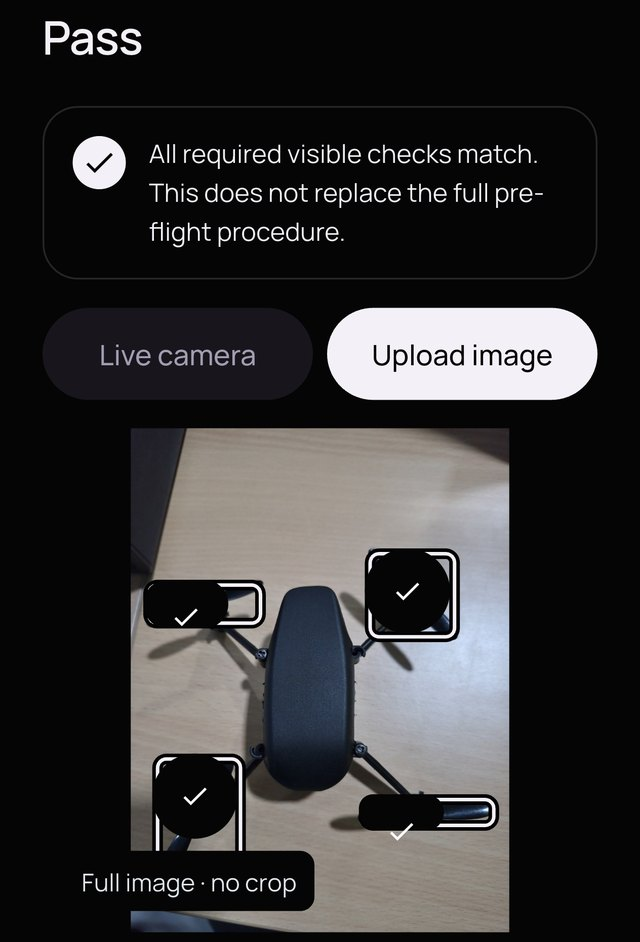
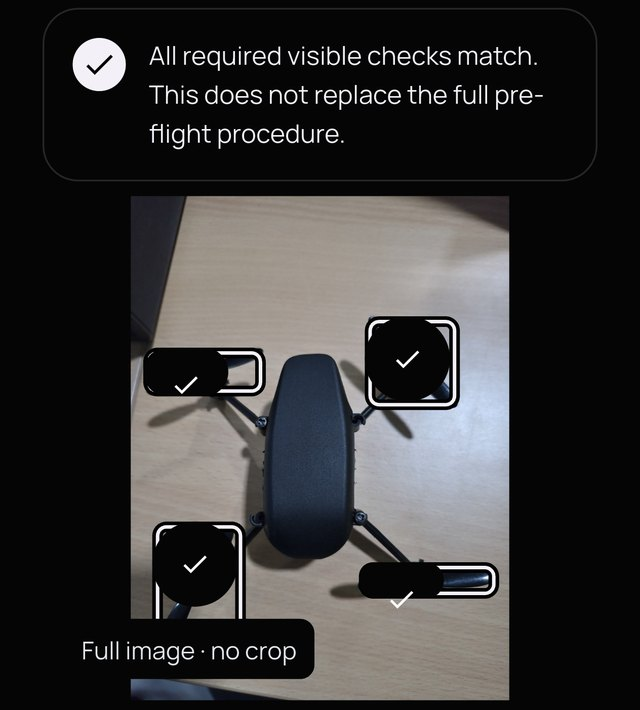
website: tighter result screenshots (message + annotated photo)

diff --git a/apps/website/index.html b/apps/website/index.html
@@ -195,7 +195,7 @@
           <p class="cases__lead">Captured from the Android app on a real phone, running the on-device model.</p>
           <ol class="cases">
             <li class="case case--pass">
-              <figure class="case__shot"><img src="./app/case-pass.jpg" width="640" height="942" loading="lazy" decoding="async" alt="App showing Pass with all four propellers ticked" /></figure>
+              <figure class="case__shot"><img src="./app/case-pass.jpg" width="640" height="710" loading="lazy" decoding="async" alt="App showing Pass with all four propellers ticked" /></figure>
               <div class="case__body">
                 <h3 class="case__title">Pass</h3>
                 <p class="case__line">All four propellers found and matched to the reference.</p>
@@ -206,7 +206,7 @@
               </div>
             </li>
             <li class="case case--fail">
-              <figure class="case__shot"><img src="./app/case-fail.jpg" width="640" height="942" loading="lazy" decoding="async" alt="App showing Incorrect Installation with the front-left propeller marked" /></figure>
+              <figure class="case__shot"><img src="./app/case-fail.jpg" width="640" height="710" loading="lazy" decoding="async" alt="App showing Incorrect Installation with the front-left propeller marked" /></figure>
               <div class="case__body">
                 <h3 class="case__title">Incorrect Installation</h3>
                 <p class="case__line">The exact motor to fix is marked, with the correct propeller type.</p>
@@ -218,7 +218,7 @@
               </div>
             </li>
             <li class="case case--unable">
-              <figure class="case__shot"><img src="./app/case-unable.jpg" width="640" height="942" loading="lazy" decoding="async" alt="App showing Unable to Verify for a close-up of one propeller" /></figure>
+              <figure class="case__shot"><img src="./app/case-unable.jpg" width="640" height="710" loading="lazy" decoding="async" alt="App showing Unable to Verify for a close-up of one propeller" /></figure>
               <div class="case__body">
                 <h3 class="case__title">Unable to Verify</h3>
                 <p class="case__line">Incomplete, blurry or dark photos are refused, never guessed.</p>

diff --git a/apps/website/src/styles.css b/apps/website/src/styles.css
@@ -1767,7 +1767,7 @@ html[data-scene='flight'] .reticle.is-live {
 .cases__lead { color: var(--muted); font-size: 0.95rem; margin: 0 0 clamp(18px, 2.4vw, 28px); }
 .cases { list-style: none; margin: 0; padding: 0; display: grid; gap: clamp(18px, 2.4vw, 32px); grid-template-columns: repeat(3, minmax(0, 1fr)); }
 .case { display: flex; flex-direction: column; border: 1px solid var(--line); border-radius: 24px; overflow: hidden; background: var(--dark-2); }
-.case__shot { margin: 0; aspect-ratio: 640 / 942; background: #000; border-bottom: 1px solid var(--line); }
+.case__shot { margin: 0; aspect-ratio: 640 / 710; background: #000; border-bottom: 1px solid var(--line); }
 .case__shot img { display: block; width: 100%; height: 100%; object-fit: cover; }
 .case__body { padding: 18px 20px 20px; display: flex; flex-direction: column; gap: 8px; }
 .case__title { margin: 0; font-family: var(--serif); font-weight: 500; font-size: clamp(1.35rem, 1.9vw, 1.6rem); line-height: 1.2; }
